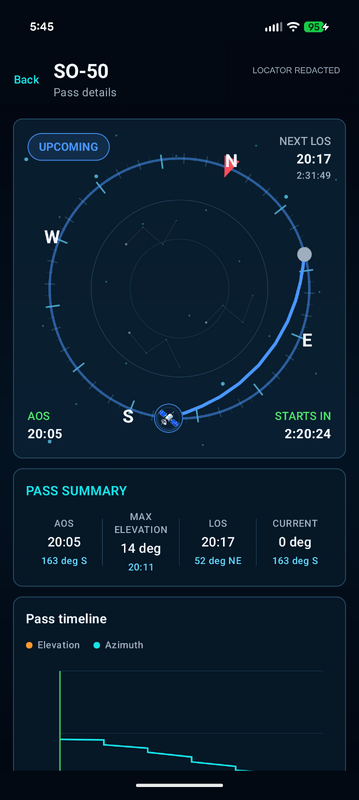
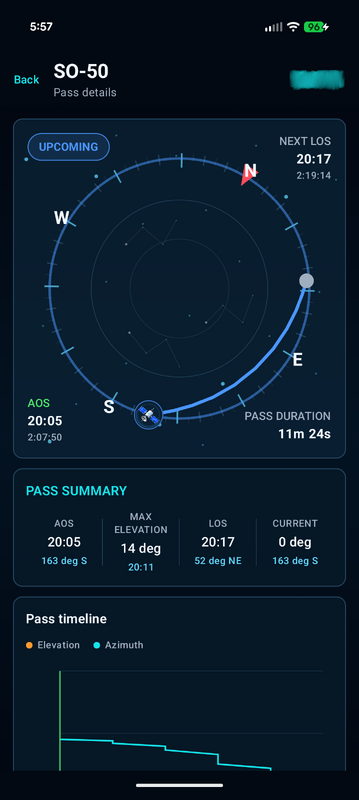
Update release screenshots and pass timing display

diff --git a/app/src/main/java/com/thenetworkings/satqso/ui/passes/PassListScreen.kt b/app/src/main/java/com/thenetworkings/satqso/ui/passes/PassListScreen.kt
@@ -1104,6 +1104,13 @@ private fun OrbitPreviewCard(
             ) {
                 Text("AOS", color = SignalGreen, style = MaterialTheme.typography.labelLarge)
                 Text(timeFormatter.format(pass.aos), fontWeight = FontWeight.Bold)
+                if (currentTime.isBefore(pass.aos)) {
+                    Text(
+                        text = formatCountdown(Duration.between(currentTime, pass.aos)),
+                        style = MaterialTheme.typography.labelMedium,
+                        color = TextSecondary,
+                    )
+                }
             }
             Column(
                 modifier = Modifier
@@ -1119,22 +1126,14 @@ private fun OrbitPreviewCard(
                     color = TextSecondary,
                 )
             }
-            val passState = passStateLabel(pass, currentTime)
             Column(
                 modifier = Modifier
                     .align(Alignment.BottomEnd)
                     .padding(18.dp),
                 horizontalAlignment = Alignment.End,
             ) {
-                Text(
-                    text = passState.first,
-                    color = passState.second,
-                    style = MaterialTheme.typography.labelLarge,
-                )
-                Text(
-                    text = passState.third,
-                    fontWeight = FontWeight.Bold,
-                )
+                Text("PASS DURATION", color = TextSecondary, style = MaterialTheme.typography.labelLarge)
+                Text(formatDuration(pass.aos, pass.los), fontWeight = FontWeight.Bold)
             }
             StatusPill(
                 text = passStatusLabel(pass, currentTime),
@@ -1795,20 +1794,6 @@ private fun formatDuration(aos: Instant, los: Instant): String {
     val seconds = duration.minusMinutes(minutes).seconds
 
     return "${minutes}m ${seconds}s"
-}
-
-private fun passStateLabel(pass: PassSummary, currentTime: Instant): Triple<String, Color, String> = when {
-    currentTime.isBefore(pass.aos) -> Triple(
-        "STARTS IN",
-        SignalGreen,
-        formatCountdown(Duration.between(currentTime, pass.aos)),
-    )
-    currentTime.isBefore(pass.los) -> Triple(
-        "ENDS IN",
-        OrbitOrange,
-        formatCountdown(Duration.between(currentTime, pass.los)),
-    )
-    else -> Triple("PASS COMPLETE", TextSecondary, "")
 }
 
 private fun formatCountdown(duration: Duration): String {
